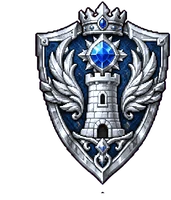
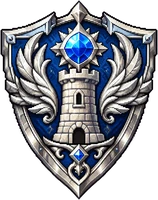
WIP b167: tower art in (shields, 5 maps, 11 of 15 monsters)
Claude-Session: https://claude.ai/code/session_01QmQpWu4DjinCPskbkXfnjC

diff --git a/src/game.src.html b/src/game.src.html
@@ -600,7 +600,7 @@ h1{color:#f2d98a;text-shadow:0 3px 0 #7a4a1c,0 6px 0 #0a1019}h2{color:#f2d98a;te
 /* b167 tower, mailbox, shields */
 .tsh{position:relative;display:inline-block;width:var(--sw,40px);aspect-ratio:171/200;vertical-align:middle;flex:none;pointer-events:none;--ac:#ffd84a}
 .tsh i{position:absolute;inset:0;z-index:1;background:url(ui/tw2.webp) 50% 50%/contain no-repeat}.tsh.t3 i{background-image:url(ui/tw3.webp)}
-.tsh.t1 i{background:url(ui/tw1.webp) 0 0/600% 100% no-repeat;animation:fxs 1.1s steps(6,jump-none) infinite}
+.tsh.t1 i{inset:auto;left:50%;top:50%;width:160%;height:137%;transform:translate(-50%,-50%);background:url(ui/tw1.webp) 0 0/600% 100% no-repeat;animation:fxs .9s steps(6,jump-none) infinite}
 .tsh img{position:absolute;inset:0;z-index:1;width:100%;height:100%;object-fit:contain}
 .tsh em{position:absolute;z-index:2;left:50%;bottom:-7%;transform:translateX(-50%);font-family:var(--display)!important;font-style:normal!important;font-weight:900!important;font-size:calc(var(--sw,40px)*.24)!important;line-height:1!important;color:#fff!important;background:#0a0e22;border:1px solid var(--ac);border-radius:4px;padding:1px 3px!important;margin:0!important;letter-spacing:.04em;white-space:nowrap;text-shadow:none!important}
 .tsh.xs em{display:none}
@@ -758,14 +758,14 @@ const MON={m01:{n:'Ember Imp',a:60,h:30,d:6,c:12},m02:{n:'Hellhound Pup',a:50,h:
  b01:{n:'Bloodfang Alpha',a:70,h:70,d:14,c:15,boss:1},b02:{n:'Elder Rootfiend',a:64,h:82,d:16,c:10,boss:1,st:'smash'},b03:{n:'Citadel Crab',k:'arm',a:60,h:88,d:22,c:8,boss:1,st:'smash'},
  b04:{n:'Magma Colossus',k:'arm',a:76,h:78,d:18,c:12,boss:1,st:'smash'},b05:{n:'Obsidian Dragon',k:'ward',a:84,h:72,d:14,c:16,boss:1,m:1,st:'cast',pj:'fire'},
  // b167 Endless Tower: two monsters and one boss per zone (tw:1 keeps them out of the 500 stages); gim = the boss's trick, see GIM
- t01:{n:'Rune Sentinel',k:'arm',a:50,h:52,d:14,c:8,st:'smash',tw:1,sp:'m08'},t02:{n:'Hall Acolyte',k:'ward',a:62,h:36,d:6,c:12,m:1,st:'cast',pj:'moon',tw:1,sp:'m10'},
- t03:{n:'Chained Grimoire',k:'arm',a:58,h:46,d:14,c:14,tw:1,sp:'m07'},t04:{n:'Ink Wraith',k:'ward',a:64,h:34,d:6,c:14,m:1,st:'cast',pj:'soul',tw:1,sp:'m04'},
- t05:{n:'Forge Automaton',k:'arm',a:54,h:52,d:16,c:8,st:'smash',tw:1,sp:'m05'},t06:{n:'Cinder Shaman',k:'ward',a:66,h:32,d:6,c:14,m:1,st:'cast',pj:'fire',tw:1,sp:'m01'},
- t07:{n:'Glacier Knight',k:'arm',a:56,h:50,d:16,c:10,st:'smash',tw:1,sp:'m06'},t08:{n:'Storm Siren',k:'ward',a:66,h:34,d:6,c:14,m:1,st:'cast',pj:'light',tw:1,sp:'m09'},
- t09:{n:'Seraph Guard',k:'arm',a:58,h:50,d:16,c:10,tw:1,sp:'m03'},t10:{n:'Star Oracle',k:'ward',a:68,h:32,d:6,c:14,m:1,st:'cast',pj:'light',tw:1,sp:'m10'},
- tb1:{n:'Gatekeeper Titan',k:'arm',a:62,h:88,d:22,c:8,boss:1,st:'smash',gim:'gate',tw:1,sp:'b03'},tb2:{n:'Arch-Lich Librarian',k:'ward',a:78,h:72,d:12,c:14,boss:1,m:1,st:'cast',pj:'soul',gim:'raise',tw:1,sp:'b02'},
- tb3:{n:'Forge Tyrant',k:'arm',a:74,h:80,d:18,c:12,boss:1,st:'smash',gim:'rage',tw:1,sp:'b04'},tb4:{n:'Blizzard Wyrm',k:'ward',a:80,h:74,d:14,c:14,boss:1,m:1,st:'cast',pj:'moon',gim:'breath',tw:1,sp:'b05'},
- tb5:{n:'Sky Emperor',a:82,h:76,d:16,c:16,boss:1,m:1,st:'cast',pj:'light',gim:'shift',tw:1,sp:'b01'}};
+ t01:{n:'Rune Sentinel',k:'arm',a:50,h:52,d:14,c:8,st:'smash',tw:1},t02:{n:'Hall Acolyte',k:'ward',a:62,h:36,d:6,c:12,m:1,st:'cast',pj:'moon',tw:1},
+ t03:{n:'Chained Grimoire',k:'arm',a:58,h:46,d:14,c:14,tw:1},t04:{n:'Ink Wraith',k:'ward',a:64,h:34,d:6,c:14,m:1,st:'cast',pj:'soul',tw:1,sp:'m04'},
+ t05:{n:'Forge Automaton',k:'arm',a:54,h:52,d:16,c:8,st:'smash',tw:1,sp:'m05'},t06:{n:'Cinder Shaman',k:'ward',a:66,h:32,d:6,c:14,m:1,st:'cast',pj:'fire',tw:1},
+ t07:{n:'Glacier Knight',k:'arm',a:56,h:50,d:16,c:10,st:'smash',tw:1,sp:'m06'},t08:{n:'Storm Siren',k:'ward',a:66,h:34,d:6,c:14,m:1,st:'cast',pj:'light',tw:1},
+ t09:{n:'Seraph Guard',k:'arm',a:58,h:50,d:16,c:10,tw:1},t10:{n:'Star Oracle',k:'ward',a:68,h:32,d:6,c:14,m:1,st:'cast',pj:'light',tw:1,sp:'m10'},
+ tb1:{n:'Gatekeeper Titan',k:'arm',a:62,h:88,d:22,c:8,boss:1,st:'smash',gim:'gate',tw:1},tb2:{n:'Arch-Lich Librarian',k:'ward',a:78,h:72,d:12,c:14,boss:1,m:1,st:'cast',pj:'soul',gim:'raise',tw:1},
+ tb3:{n:'Forge Tyrant',k:'arm',a:74,h:80,d:18,c:12,boss:1,st:'smash',gim:'rage',tw:1},tb4:{n:'Blizzard Wyrm',k:'ward',a:80,h:74,d:14,c:14,boss:1,m:1,st:'cast',pj:'moon',gim:'breath',tw:1},
+ tb5:{n:'Sky Emperor',a:82,h:76,d:16,c:16,boss:1,m:1,st:'cast',pj:'light',gim:'shift',tw:1}};
 Object.keys(MON).forEach(id=>Object.defineProperty(C,id,{value:{r:'C',role:'atk',...MON[id],mon:1},enumerable:false}));
 const MSM=Object.keys(MON).filter(id=>!MON[id].boss&&!MON[id].tw),MBS=Object.keys(MON).filter(id=>MON[id].boss&&!MON[id].tw);
 const RORD=['C','UC','R','L','SL','LT'],STARTERS=['h06','h20','h11'],POOL=Object.keys(C).filter(id=>C[id].r!=='ST').sort((x,y)=>RORD.indexOf(C[x].r)-RORD.indexOf(C[y].r));
@@ -2259,11 +2259,11 @@ function srvSync(){if(tSync||tBusy||!mkOn())return;tBusy=1;
    .catch(()=>{}).then(()=>{tBusy=0;if(!tSync)return setTimeout(srvSync,60000);const w0=S.tw&&S.tw.w;twRoll();if(((S.tw&&S.tw.w)!==w0||Math.abs(TOFF)>6e4)&&!bt){if(document.querySelector('.lobby'))home();else if(document.querySelector('.twhub'))tower()}})}
 const twWeek=(ms=now())=>Math.max(TW_W0,Math.floor(((ms+7*36e5)/864e5-4)/7)),twEnd=w=>((w+1)*7+4)*864e5-7*36e5,twSeason=w=>Math.max(1,w-TW_W0+1);
 const TWZ=[
- {n:'Ancient Stone Hall',th:'โถงหินโบราณ',bg:'bg/m2.webp',fx:{fog:'#b8c8ff',p:[['dust','#c8d8ff',30],['fly','#ffc46b',10]]},m:['t01','t02'],b:'tb1'},
- {n:'Cursed Library',th:'หอสมุดต้องสาป',bg:'bg/m8.webp',fx:{glow:'#3affb0',p:[['spore','#b6ffd9',26],['dust','#dfe8ff',18]]},m:['t03','t04'],b:'tb2'},
- {n:'Lava Forge',th:'เตาหลอมลาวา',bg:'bg/m1.webp',fx:{glow:'#ff6a1a',p:[['ember','#ffb04a',50],['ash','#c9b0a8',18]]},m:['t05','t06'],b:'tb3'},
- {n:'Storm Spire',th:'ยอดหอพายุน้ำแข็ง',bg:'bg/m10.webp',fx:{fog:'#e8f4ff',flash:1,p:[['bliz']]},m:['t07','t08'],b:'tb4'},
- {n:'Throne above the Clouds',th:'บัลลังก์เหนือเมฆ',bg:'bg/m3.webp',fx:{glow:'#ffe9a0',p:[['spark','#ffffff',26],['dust','#ffe9a0',34]]},m:['t09','t10'],b:'tb5'}];
+ {n:'Ancient Stone Hall',th:'โถงหินโบราณ',bg:'bg/t1.webp',fx:{fog:'#b8c8ff',p:[['dust','#c8d8ff',30],['fly','#ffc46b',10]]},m:['t01','t02'],b:'tb1'},
+ {n:'Cursed Library',th:'หอสมุดต้องสาป',bg:'bg/t2.webp',fx:{glow:'#3affb0',p:[['spore','#b6ffd9',26],['dust','#dfe8ff',18]]},m:['t03','t04'],b:'tb2'},
+ {n:'Lava Forge',th:'เตาหลอมลาวา',bg:'bg/t3.webp',fx:{glow:'#ff6a1a',p:[['ember','#ffb04a',50],['ash','#c9b0a8',18]]},m:['t05','t06'],b:'tb3'},
+ {n:'Storm Spire',th:'ยอดหอพายุน้ำแข็ง',bg:'bg/t4.webp',fx:{fog:'#e8f4ff',flash:1,p:[['bliz']]},m:['t07','t08'],b:'tb4'},
+ {n:'Throne above the Clouds',th:'บัลลังก์เหนือเมฆ',bg:'bg/t5.webp',fx:{glow:'#ffe9a0',p:[['spark','#ffffff',26],['dust','#ffe9a0',34]]},m:['t09','t10'],b:'tb5'}];
 TWZ.forEach((z,i)=>FX[101+i]=z.fx);
 const twZone=f=>Math.floor((Math.max(1,f)-1)/20)%TWZ.length,twBg=f=>bgCore(101+twZone(f),TWZ[twZone(f)].bg),twEq=f=>Math.max(1,Math.min(MAXST,Math.round(f*TW_K)));
 // what each tower boss does (C[boss].gim): shown on the tower screen and in the guide, enforced in hurt() / act() / twRound()

diff --git a/tools/t167h.js b/tools/t167h.js
@@ -1,0 +1,11 @@
+const {chromium}=require('playwright');const fs=require('fs');(async()=>{const b=await chromium.launch({executablePath:'/opt/pw-browsers/chromium'});const p=await b.newPage({viewport:{width:900,height:420},deviceScaleFactor:2});const e=[];p.on('pageerror',x=>e.push(x.message));const w=n=>new Promise(r=>setTimeout(r,n));
+const mock=fs.readFileSync('fbmock.js','utf8');let n=0;await p.route('https://www.gstatic.com/**',r=>r.fulfill({status:200,contentType:'text/javascript',body:n++?'':mock}));
+await p.addInitScript(()=>{window.__USER={uid:'me',email:'me@example.com'};const t=Date.now();window.__DB={saves:{},slips:{},grants:{},online:{},config:{main:{}},adminlog:{},arena:{},market:{},payouts:{},refs:{}}});
+await p.goto('file:///home/claude/pixeldeck/_t.html');await w(1500);
+await p.evaluate(async()=>{USER={sub:'me',name:'T'};S=unlock(fresh());S.me={name:'Toey'};S.gift=true;S.tut=null;S.n160=S.n165=S.n167=1;['h15','h13','h26'].forEach(id=>S.cards[id]={lv:90,exp:0});S.team=['h15','h13','h26'];S.cleared=200;S.auto=false;S.spd=1;S.sh=['T1.1','T2.1','T3.1','P5.1'];S.shp='T1.1';
+ const W=twWeek(),t=Date.now(),c=window.__DB['tower/'+W+'/s']={};[['a','Narathip',141,3],['b','Kanit',141,5],['c','Getter',112,1],['e','Zed',70,9]].forEach(([u,nm,f,h],i)=>c[u]={name:nm,look:'h06',f,at:new Date(t-h*36e5),fd:i<2?1:0,sh:i===0?'T1.1':'',st:i*9});save();await fbLoad();await fbUser();home()});
+await w(1800);await p.screenshot({path:'c_lobby.png'});
+await p.evaluate(()=>tower());await w(1200);await p.screenshot({path:'c_hub.png'});
+let k=0;for(const f of [10,30,50,70,90,5,25,45,65,85]){await p.evaluate(f=>{bt=null;busy=false;S.tw.f=f-1;twTok++;startTower(f)},f);await w(f%10?2600:3600);await p.screenshot({path:'c_f'+f+'.png'})}
+await p.evaluate(()=>{bt=null;busy=false;charMake();document.querySelector('.main').scrollTop=235});await w(700);await p.screenshot({path:'c_cab.png'});
+console.log('errs',e);await b.close()})()

diff --git a/tools/towermon.py b/tools/towermon.py
@@ -1,0 +1,57 @@
+# b167 tower monsters: tools/tower_in/NN-name.png (6 idle frames over 6 attack frames on magenta, facing left) -> spr/<id>.webp + art/<id>.webp, using monsheet2's cutter
+import sys,re,numpy as np
+from PIL import Image
+src=open('/home/claude/pixeldeck/tools/monsheet2.py',encoding='utf8').read();src=src[:src.index("\nJ=[")]
+exec(src);U='/home/claude/pixeldeck/tools/tower_in/'
+TINT.update({'t01':(40,52,96),'t02':(20,70,76),'t03':(80,50,24),'t04':(20,40,70),'t05':(110,52,20),'t06':(120,40,14),'t07':(40,70,110),'t08':(50,60,110),'t09':(120,100,40),'t10':(40,40,100),
+ 'tb1':(50,60,100),'tb2':(20,80,50),'tb3':(120,40,10),'tb4':(40,80,130),'tb5':(130,100,30)})
+# file, id, body height in the 252x204 cell, hand cuts in the attack row (x in the source picture) where two frames touch
+J={'09':('t01',132,()),'10':('t02',136,()),'11':('t03',118,()),'12':('t04',136,()),'13':('t05',132,()),'14':('t06',120,()),'15':('t07',138,()),'16':('t08',134,()),'17':('t09',138,()),'18':('t10',136,()),
+   '19':('tb1',184,()),'20':('tb2',182,()),'21':('tb3',184,()),'22':('tb4',180,()),'23':('tb5',184,())}
+import os
+only=[a for a in sys.argv[1:] if a!='v3']
+# ---- second cutter, for sheets whose frames touch or whose painted effects reach into the next frame: each row is cut at the emptiest column near every sixth of the width;
+# inside a slice the biggest part is the body (with whatever effect is joined to it), loose bits near it stay, and anything that only pokes in over a cut from the neighbour is dropped
+def rows2(rgba):
+    al=rgba[...,3];rb=bands(al,1)
+    if len(rb)==2:return rb
+    p=(al>40).sum(1).astype(float);H=len(p);lo,hi=int(H*.4),int(H*.6);y=lo+int(np.argmin(nd.uniform_filter1d(p,9)[lo:hi]));ys=np.where(p>3)[0];return[(ys.min(),y),(y,ys.max()+1)]
+def slices(rgba,y0,y1,atk):
+    y0=max(0,y0-4);y1=min(rgba.shape[0],y1+4);band=rgba[y0:y1].copy();W=band.shape[1];p=nd.uniform_filter1d((band[...,3]>40).sum(0).astype(float),7);cuts=[0]
+    for k in range(1,6):
+        c=round(k*W/6);lo,hi=c-110,c+110;seg=p[lo:hi];m=seg.min();cand=np.where(seg<=m+2)[0]+lo;cuts.append(int(cand[np.argmin(abs(cand-c))]))
+    cuts.append(W);out=[]
+    for i in range(6):
+        c=band[:,cuts[i]:cuts[i+1]].copy();m=c[...,3]>40;lab,n=nd.label(m,structure=np.ones((3,3)));sz=nd.sum(m,lab,range(1,n+1));big=int(np.argmax(sz))+1;ys,xs=np.where(lab==big);bb=(xs.min(),xs.max(),ys.min(),ys.max());w=c.shape[1]
+        for j in range(1,n+1):
+            if j==big:continue
+            yy,xx=np.where(lab==j);edge=xx.min()<=1 or xx.max()>=w-2
+            dx=max(bb[0]-xx.max(),xx.min()-bb[1],0);dy=max(bb[2]-yy.max(),yy.min()-bb[3],0)
+            if sz[j-1]<4 or (edge and i not in(0,5)) or (edge and (xx.min()<=1 and i>0 or xx.max()>=w-2 and i<5)) or np.hypot(dx,dy)>60:c[lab==j]=0
+        ys,xs=np.where(c[...,3]>40);X0,X1,Y0,Y1=xs.min(),xs.max(),ys.min(),ys.max();out.append((c[Y0:Y1+1,X0:X1+1],(bb[0]-X0,bb[1]-X0,bb[2]-Y0,bb[3]-Y0)))
+    return out,cuts
+# sheets whose attack row cannot be cut cleanly (a beam or blast painted across two frames): the attack row repeats the idle frames until a redrawn sheet arrives; the game still lunges and plays its own hit effect
+ATK_IDLE={'t06','t08','tb2','tb3','tb4','tb5'}
+def build3(src,name,target_h,maxw=236):
+    rgba=key(Image.open(U+src));rb=rows2(rgba);idle,c1=slices(rgba,*rb[0],0);atk,c2=slices(rgba,*rb[1],1)
+    if name in ATK_IDLE:atk=idle
+    bh=np.median([b[3]-b[2] for _,b in idle]);bw=np.median([b[1]-b[0] for _,b in idle]);sc=min(target_h/bh,maxw/bw);right=CW/2+bw*sc/2
+    def place(fr,by_right):
+        c,(x0,x1,y0,y1)=fr;im=Image.fromarray(c,'RGBA');im=im.resize((max(1,round(c.shape[1]*sc)),max(1,round(c.shape[0]*sc))),Image.LANCZOS)
+        ox=round(right-(x1+1)*sc) if by_right else round(CW/2-(x0+x1+1)/2*sc);oy=round(BASE-(y1+1)*sc);tmp=Image.new('RGBA',(CW,CH),(0,0,0,0));tmp.paste(im,(ox,oy),im);return tmp,ox,im.width
+    sheet=Image.new('RGBA',(CW*6,CH*4),(0,0,0,0));clip=0
+    for c in range(6):
+        fi,_,_=place(idle[c],False);fa,ox,w=place(atk[c],name not in ATK_IDLE);clip=max(clip,-ox,ox+w-CW)
+        for r in (0,1,3):sheet.paste(fi,(c*CW,r*CH))
+        sheet.paste(fa,(c*CW,2*CH))
+    sheet.save(f'/home/claude/pixeldeck/spr/{name}.webp',quality=90,method=6)
+    f0=Image.fromarray(idle[0][0],'RGBA');k=min(360/f0.width,216/f0.height);f0=f0.resize((round(f0.width*k),round(f0.height*k)),Image.LANCZOS)
+    bg=np.zeros((240,400,3),float);yy,xx=np.mgrid[0:240,0:400];d=np.hypot((xx-200)/260,(yy-130)/170);col=np.array(TINT[name]);bg[:]=col*np.clip(1.15-d,0.18,1)[...,None]
+    art=Image.fromarray(bg.astype('uint8')).convert('RGBA');art.alpha_composite(f0,((400-f0.width)//2,240-f0.height-8));art.convert('RGB').save(f'/home/claude/pixeldeck/art/{name}.webp',quality=86)
+    print(name,'v3 scale %.2f body %dx%d clipped %d'%(sc,bw*sc,bh*sc,max(0,clip)),'cuts',c2[1:-1])
+if 'v3' in sys.argv or True:
+    for f in sorted(os.listdir(U)):
+        k=f[:2]
+        if k in J and (not only or k in only):
+            try:build3(f,J[k][0],J[k][1],maxw=200 if 'BOSS' in f else 236)
+            except Exception as e:print(J[k][0],'v3 FAILED',type(e).__name__,e)

diff --git a/tools/towercut.py b/tools/towercut.py
@@ -24,7 +24,7 @@ def strip(src,cols,rows,out,pad=3):
         fr=fr.resize((w,H),Image.LANCZOS);st.paste(fr,(i*w,0));fr0=fr0 or fr
     st.save(P+out,quality=90,method=6);print(out,'frame',w,'x',H,'aspect',round(w/H,4));return fr0
 def single(src,out):
-    rgba=key(Image.open(D+src));ys,xs=np.where(rgba[...,3]>40);im=Image.fromarray(rgba[ys.min()-3:ys.max()+4,xs.min()-3:xs.max()+4],'RGBA');w=round(im.width*H/im.height);im.resize((w,H),Image.LANCZOS).save(P+out,quality=90,method=6);print(out,w,H)
+    rgba=key(Image.open(D+src));m=rgba[...,3]>60;lab,n=nd.label(m);sz=nd.sum(m,lab,range(1,n+1));rgba[lab!=int(np.argmax(sz))+1]=0;ys,xs=np.where(rgba[...,3]>40);im=Image.fromarray(rgba[max(0,ys.min()-3):ys.max()+4,max(0,xs.min()-3):xs.max()+4],'RGBA');w=round(im.width*H/im.height);im.resize((w,H),Image.LANCZOS).save(P+out,quality=90,method=6);print(out,w,H)
 def tint(fr,out,sat,val,hue=None):
     a=np.asarray(fr).astype(float)/255;r,g,b,al=a[...,0],a[...,1],a[...,2],a[...,3];mx=a[...,:3].max(-1);mn=a[...,:3].min(-1);gold=(r>b+.08)&(g>b)   # the warm metal only; the blue enamel and gem stay
     lum=.3*r+.59*g+.11*b;o=a.copy()
@@ -32,7 +32,26 @@ def tint(fr,out,sat,val,hue=None):
     else:
         hr,hg,hb=colorsys.hsv_to_rgb(hue,sat,1);t=np.stack([lum*val*hr*1.25,lum*val*hg*1.25,lum*val*hb*1.25],-1)
     o[...,:3]=np.where(gold[...,None],np.clip(t,0,1),a[...,:3]);Image.fromarray((o*255).astype('uint8'),'RGBA').save(P+out,quality=90,method=6);print(out,'(recoloured)')
-g=[f for f in sorted(os.listdir(D)) if f.startswith('01')][-1];fr=strip(g,3,2,'ui/tw1.webp')
+# rank 1 with its storm effects (v1): every frame is a square cut around the shield, centred on the navy enamel so the shield itself never moves; the shield fills FX_BODY of the frame's height
+FX=500;FX_OUT=260
+def fxstrip(src,out):
+    im=Image.open(D+src).convert('RGB');a=np.asarray(im);Hh,W=a.shape[:2];rgba=key(im);fr=[]
+    for i in range(6):
+        r,c=divmod(i,3);x0,y0=c*W//3,r*Hh//2;cell=a[y0:y0+Hh//2,x0:x0+W//3].astype(int);m=(cell[...,2]>cell[...,0]+25)&(cell[...,2]>cell[...,1]+10)&(cell[...,2]<150)&(cell[...,0]<70);ys,xs=np.where(m)
+        cx,cy=x0+xs.mean(),y0+ys.mean()+28;L,T=int(round(cx-FX/2)),int(round(cy-FX/2));f=Image.new('RGBA',(FX,FX),(0,0,0,0));src_im=Image.fromarray(rgba,'RGBA')
+        # only this cell's own pixels: a bolt from the neighbour must not show up
+        box=(max(L,x0),max(T,y0),min(L+FX,x0+W//3),min(T+FX,y0+Hh//2));f.paste(src_im.crop(box),(box[0]-L,box[1]-T));fr.append(f.resize((FX_OUT,FX_OUT),Image.LANCZOS))
+    st=Image.new('RGBA',(FX_OUT*6,FX_OUT),(0,0,0,0))
+    for i,f in enumerate(fr):st.paste(f,(i*FX_OUT,0))
+    st.save(P+out,quality=90,method=6);print(out,'fx strip',st.size)
+G=[f for f in sorted(os.listdir(D)) if f.startswith('01')];fr=strip('01-shield-gold-v0.png',3,2,'ui/tw1s.webp')
+fxstrip(G[-1],'ui/tw1.webp')
 s=[f for f in sorted(os.listdir(D)) if f.startswith('02')];b=[f for f in sorted(os.listdir(D)) if f.startswith('03')]
 single(s[-1],'ui/tw2.webp') if s else tint(fr,'ui/tw2.webp',0,1.18)
 single(b[-1],'ui/tw3.webp') if b else tint(fr,'ui/tw3.webp',.62,.92,.065)
+# maps 04-08 -> bg/t1..t5.webp, same recipe as mapcut.py (ground line 46% from the top)
+HZ,SQ=236,.8
+for f in sorted(os.listdir(D)):
+    if f[:2] not in('04','05','06','07','08'):continue
+    im=Image.open(D+f).convert('RGB');W,Hh=im.size;hz=round(Hh*.561);sx=1280/W;g=min(Hh-hz,round((512-HZ)/sx));top=max(0,round(hz-HZ/(sx*SQ)))
+    o=Image.new('RGB',(1280,512));o.paste(im.crop((0,top,W,hz)).resize((1280,HZ),Image.LANCZOS),(0,0));o.paste(im.crop((0,hz,W,hz+g)).resize((1280,512-HZ),Image.LANCZOS),(0,HZ));o.save(P+'bg/t%d.webp'%(int(f[:2])-3),quality=84,method=6);print('bg/t%d'%(int(f[:2])-3),f)
